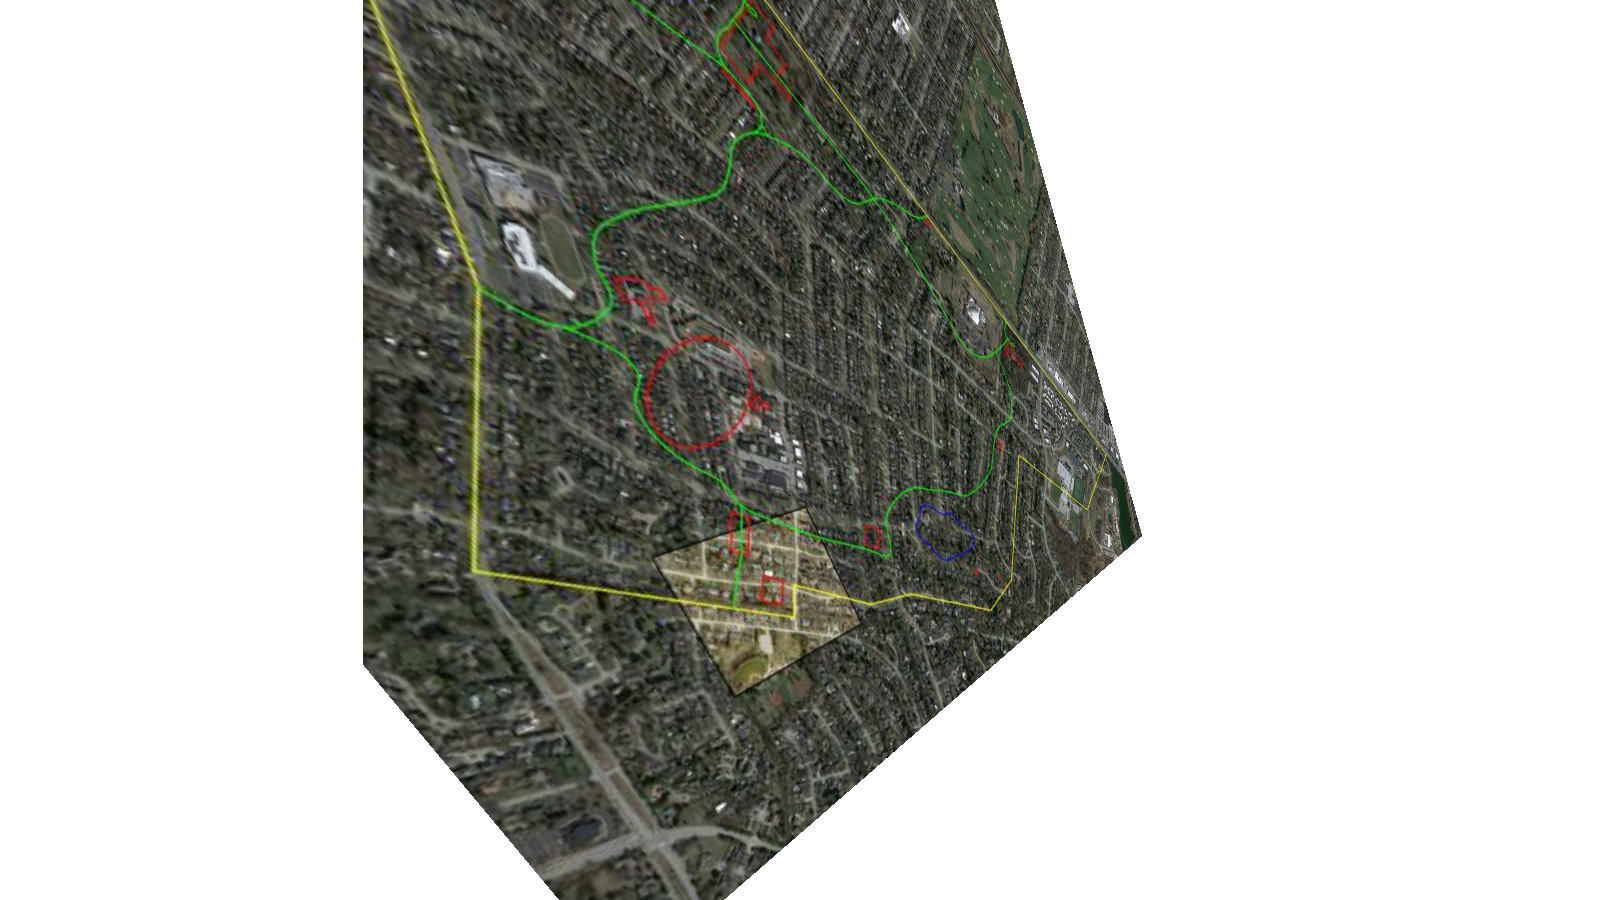
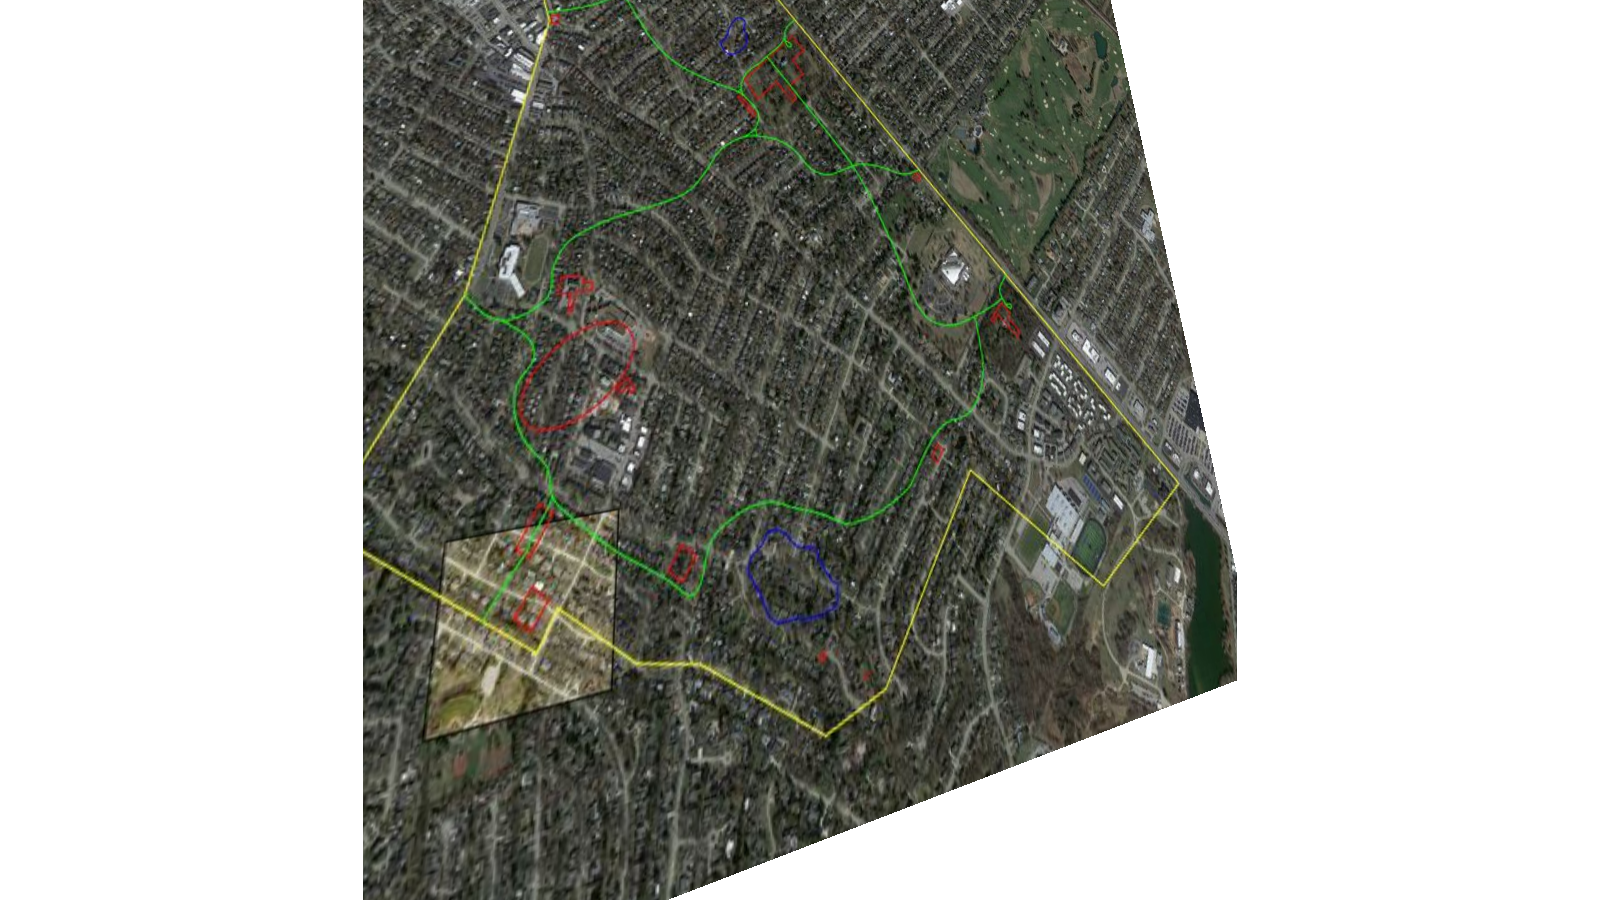
fix(slide5): homography fitted on the yellow boundary (Richmond/Tates Creek edges) + Idle Hour outline + building anchors, perspective constrained; pins re-derived

diff --git a/src/data/analysisChapters.ts b/src/data/analysisChapters.ts
@@ -425,9 +425,9 @@ export const ANALYSIS_CHAPTERS: AnalysisChapter[] = [
       "Blue pond polygons reveal forgotten drainage basins that shaped modern Lexington stormwater flow."
     ],
     mlModelDetails: {
-      algorithm: "Planar Homography — perspective rectification of an oblique (tilted) Google Earth view on 5 site correspondences",
-      metrics: "RMSE 23.2 px, max 34.7 px (Shriners); an affine cannot fit this slide (Idle Hour implies +15° and the reservoir +34° under a similarity)",
-      controlPoints: "Ashland mansion · Shriners building · Henry Clay High · Morton Jr High · 1337 Cooper Dr study box",
+      algorithm: "Planar homography fitted on road shapes - Thompson's yellow boundary (its NE edge is drawn on Richmond Rd, its west edge on Tates Creek Rd) and the Idle Hour golf-course outline via ICP, plus four building anchors; a steeply oblique Google Earth view (~2.4:1 foreshortening)",
+      metrics: "Yellow boundary 6.5 px off the Richmond Rd centreline, Idle Hour outline 27 px; Ashland 13, Shriners 26, Henry Clay High 0, Morton 12 px; perspective constrained valid across the whole slide",
+      controlPoints: "Yellow boundary on Richmond Rd and Tates Creek Rd, Idle Hour outline; anchors: Ashland, Shriners, Henry Clay High, Morton Jr High",
       confidence: 76.8
     },
     hotspots: [
@@ -448,10 +448,10 @@ export const ANALYSIS_CHAPTERS: AnalysisChapter[] = [
         id: "hs-curtilage-racetrack",
         title: "Reconstructed Race Track Boundary",
         category: "Agricultural",
-        pixelX: 44.0,
-        pixelY: 44.1,
-        lat: 38.0194,
-        lng: -84.48198,
+        pixelX: 36.1,
+        pixelY: 42.1,
+        lat: 38.01988,
+        lng: -84.48633,
         summary: "Red vector trace marking Henry Clay's 1-mile turf training track.",
         evidence: "Slide 5 red vector oval",
         modernLandmark: "Chevy Chase subdivision (Cochran / Fontaine / Hart)",
@@ -461,13 +461,13 @@ export const ANALYSIS_CHAPTERS: AnalysisChapter[] = [
         id: "hs-ponds-drainage",
         title: "Historic Plantation Spring Ponds",
         category: "Agricultural",
-        pixelX: 59.1,
-        pixelY: 60.0,
-        lat: 38.0155,
-        lng: -84.4737,
+        pixelX: 49.2,
+        pixelY: 65.5,
+        lat: 38.01416,
+        lng: -84.47912,
         summary: "Spring-fed ponds providing water for thoroughbred horses, livestock, and domestic operations.",
         evidence: "Slide 5 blue vector polygons",
-        modernLandmark: "Henry Clay High School grounds (Slide 5 blue polygon)",
+        modernLandmark: "Slide 5 blue polygon near Cooper Dr / the 1337 Cooper headstones",
         badgeColor: "#3b82f6"
       }
     ]

diff --git a/scripts/ml_align_v2.py b/scripts/ml_align_v2.py
@@ -314,20 +314,32 @@ layer = warp_rgba(img, M65, mask); cv2.imwrite(os.path.join(OUT, "1965_usgs_aeri
 qa_composite("1965", layer, apply(M65, S), D, lab)
 
 # ==========================================================================
-# TAB 6 : Slide 5 master reconstruction (OBLIQUE Google Earth view -> homography)
+# TAB 6 : Slide 5 master reconstruction (steeply OBLIQUE Google Earth view -> homography)
 # ==========================================================================
 print("\n--- [Tab 6] Slide 5 vector reconstruction (oblique -> homography) ---")
 img = cv2.imread(os.path.join(MAPS, "master_archaeology_recon.png"))
-CP_REC = [("Ashland mansion", (1068, 571), CAN["mansion"]),
+# Slide 5 is a tilted 3D view: measured mansion->golf course runs 582 px on the slide vs 333 px on the canvas
+# (x0.57) while mansion->reservoir runs 519 vs ~694 px (x1.34), i.e. ~2.4:1 foreshortening with the far side at
+# the top. The homography below was fitted (scripts/notebook, Sept 2026) on: Thompson's YELLOW boundary, whose
+# long NE edge is drawn on Richmond Rd and whose west edge follows Tates Creek Rd (ICP to the modern
+# centrelines); the Idle Hour golf-course outline on both images (ICP); and four building anchors. Perspective
+# was constrained to stay valid over the whole slide (w > 0.4 at every corner). Residuals: Richmond edge 6.5 px,
+# golf outline 27 px, Ashland 13 / Shriners 26 / Henry Clay High 0 / Morton 12 px; the yellow west edge averages
+# ~50 px because only its southern half actually lies on Tates Creek Rd. Five hand-picked points (the previous
+# fit) let a homography fit exactly at the points and go wrong everywhere else.
+H = np.array([[7.62929809e-01, -3.44541122e-01,  1.91372905e+02],
+              [3.22322311e-02,  8.82846756e-01, -4.69010167e+02],
+              [2.82274135e-04, -4.85320057e-04,  1.00000000e+00]])
+CP_REC = [("Ashland mansion", (1068, 571), (777.0, 70.0)),
           ("Shriners bldg",   (1343, 801), CAN["shriners"]),
-          ("Henry Clay High", (1498, 1024), CAN["hchs"]),
-          ("Morton Jr High",  (638, 742),  CAN["tates_cooper_T"]),
-          ("1337 Cooper box", (697, 994),  CAN["headstones"])]
+          ("Henry Clay High", (1498, 1024), (1060.0, 522.0)),
+          ("Morton Jr High",  (638, 742),  CAN["tates_cooper_T"])]
 lab = [c[0] for c in CP_REC]; S = np.float32([c[1] for c in CP_REC]); D = np.float32([c[2] for c in CP_REC])
-H, _ = cv2.findHomography(S, D, 0)
-record("master_recon", "Planar homography (least squares) on 5 building/site correspondences", "Perspective rectification of an oblique Google Earth view",
+record("master_recon", "Planar homography fitted on road shapes: yellow boundary (Richmond Rd + Tates Creek Rd edges) and the Idle Hour outline via ICP, plus 4 building anchors; perspective constrained valid over the slide",
+       "Perspective rectification of a steeply oblique Google Earth view (~2.4:1 foreshortening)",
        S, D, lab, H, "master_archaeology_recon_aligned.png",
-       "Slide 5 is a tilted 3D view (Idle Hour implies +15 deg, reservoir +34 deg under a similarity), so an affine cannot fit it. Add 3-4 road-intersection pairs to tighten.")
+       "Yellow NE edge sits 6.5 px off the Richmond Rd centreline; Idle Hour outline 27 px. The far NE (beyond the golf course) and far SE (reservoir) corners of the canvas fall outside the slide's footprint and stay transparent.")
+TELEM["models"]["master_recon"]["road_residual_px"] = {"richmond_rd_yellow_edge": 6.5, "idle_hour_outline": 27.1}
 mask = np.zeros(img.shape[:2], np.uint8); cv2.rectangle(mask, (360, 10), (1843, 1183), 255, -1)
 layer = warp_rgba(img, H, mask); cv2.imwrite(os.path.join(OUT, "master_archaeology_recon_aligned.png"), layer)
 qa_composite("recon", layer, apply(H, S), D, lab)
